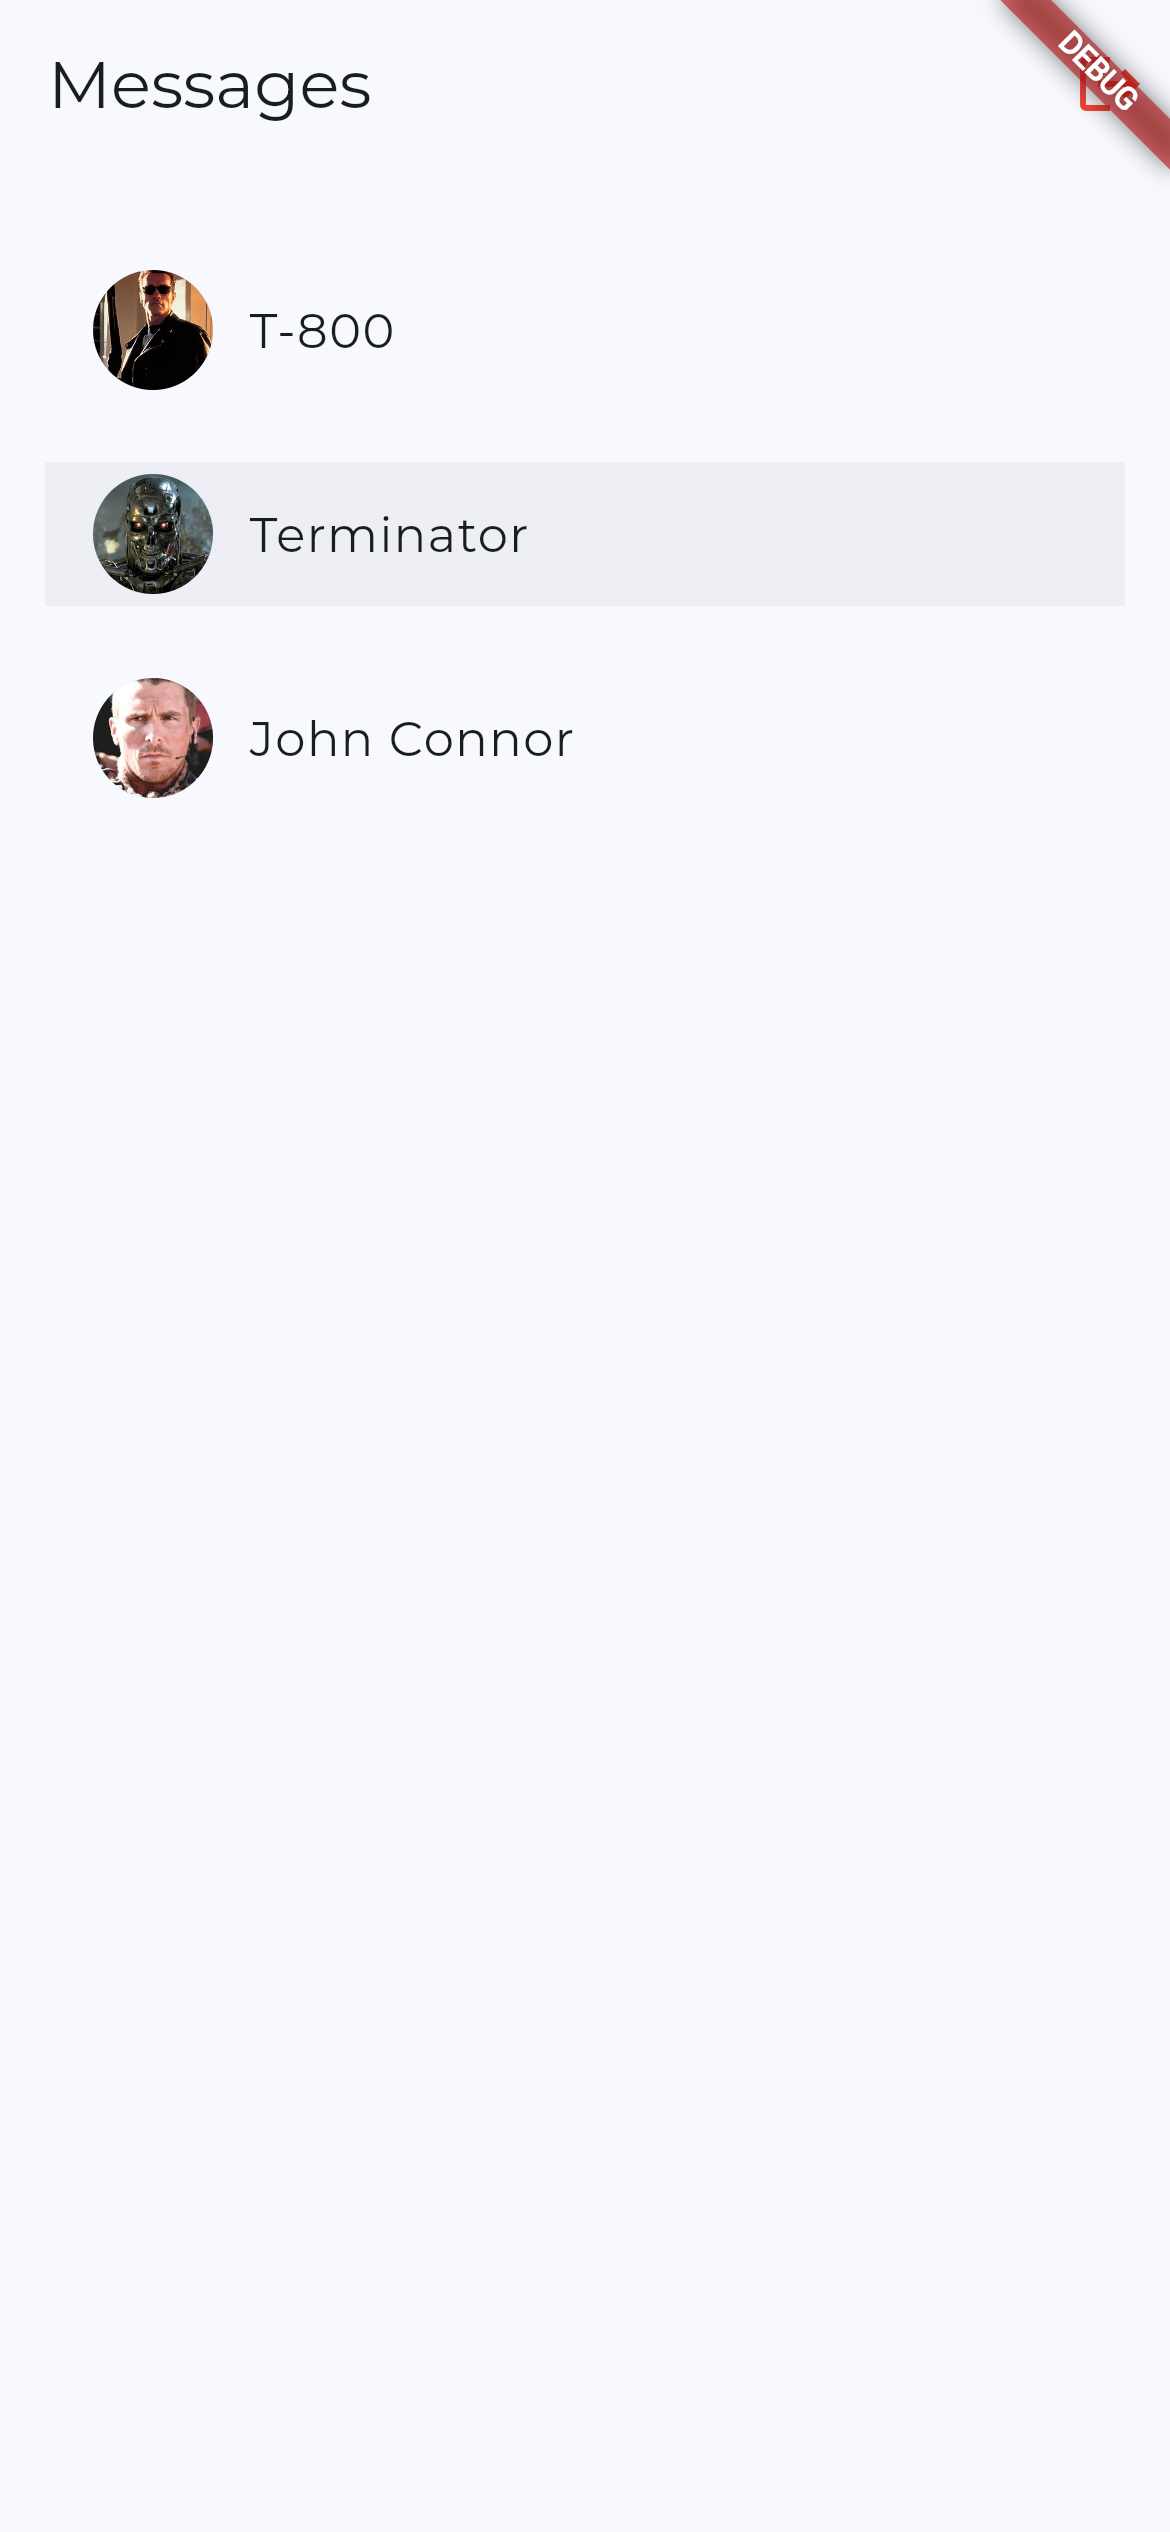
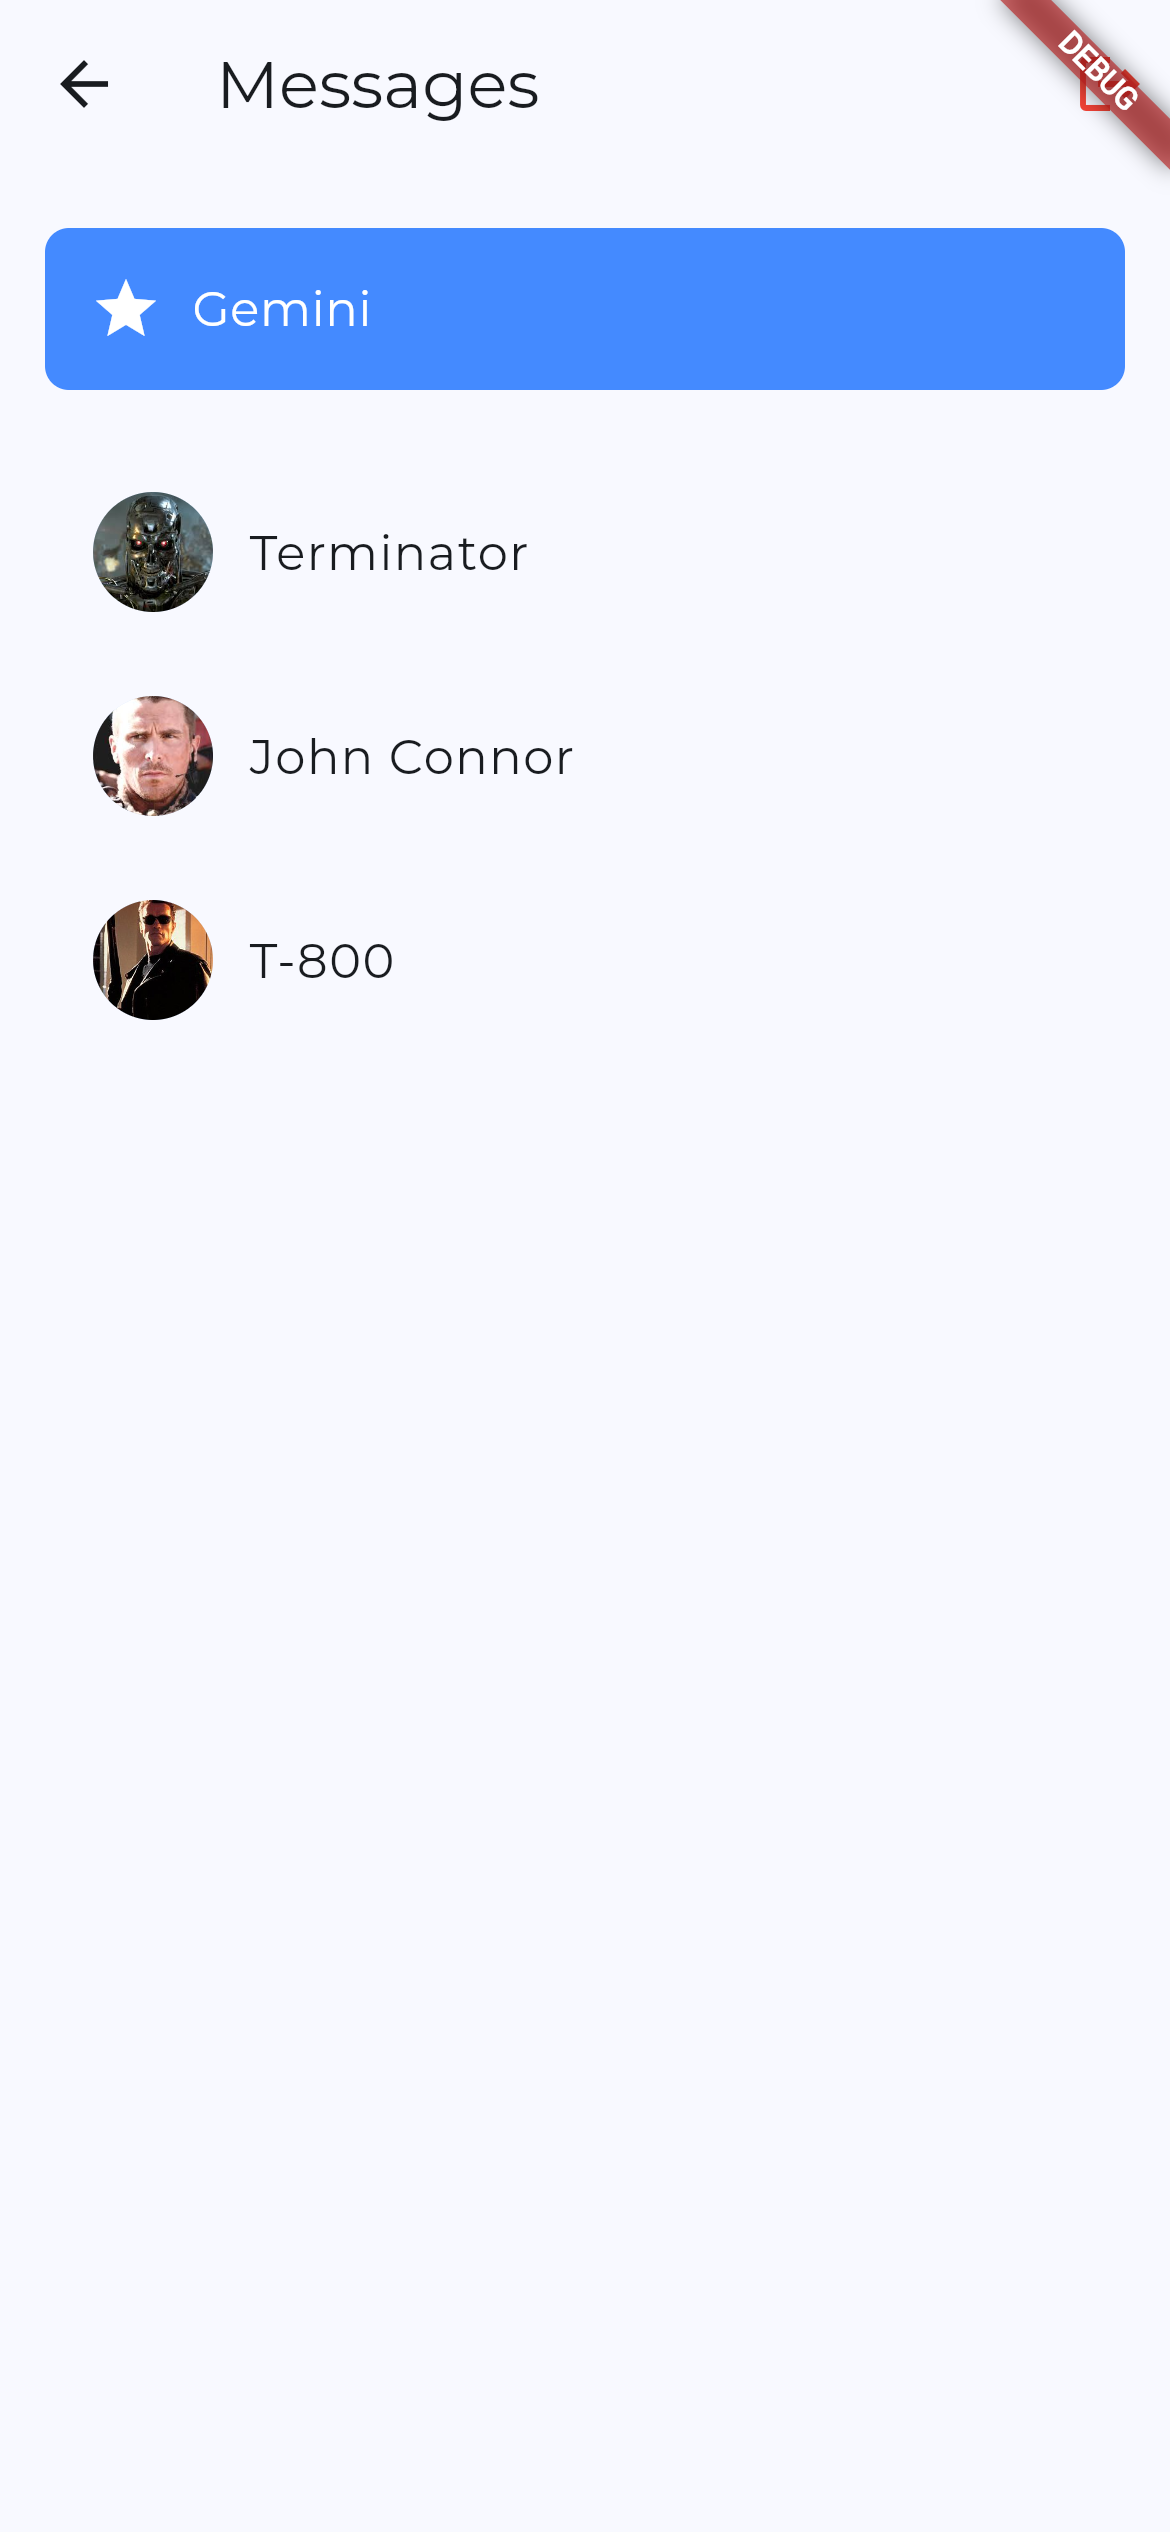
Added Gemini API

diff --git a/lib/pages/gemini_page.dart b/lib/pages/gemini_page.dart
@@ -1,0 +1,150 @@
+import 'dart:io';
+import 'dart:typed_data';
+
+import 'package:dash_chat_2/dash_chat_2.dart';
+import 'package:flutter/material.dart';
+import 'package:flutter_gemini/flutter_gemini.dart';
+import 'package:get_it/get_it.dart';
+import 'package:image_picker/image_picker.dart';
+import 'package:skynet/services/auth_service.dart';
+
+class GeminiPage extends StatefulWidget {
+  const GeminiPage({super.key});
+
+  @override
+  State<GeminiPage> createState() => GeminiPageState();
+}
+
+class GeminiPageState extends State<GeminiPage> {
+  List<ChatMessage> messages = [];
+
+  final Gemini gemini = Gemini.instance;
+  final GetIt _getIt = GetIt.instance;
+
+  late AuthService _authService;
+
+  ChatUser? currentUser, otherUser;
+
+  @override
+  void initState() {
+    super.initState();
+    _authService = _getIt.get<AuthService>();
+
+    currentUser = ChatUser(
+      id: _authService.user!.uid,
+      firstName: _authService.user!.displayName,
+    );
+    otherUser = ChatUser(
+      id: "b1PbAaFJWyWHv1ikfu2B7AFBpwD2",
+      firstName: "Gemini",
+      profileImage:
+          "https://static.toiimg.com/thumb/msid-110225707,width-1280,height-720,resizemode-4/110225707.jpg",
+    );
+  }
+
+  @override
+  Widget build(BuildContext context) {
+    return Scaffold(
+      appBar: AppBar(
+        centerTitle: true,
+        title: const Text(
+          "Gemini Chat",
+        ),
+      ),
+      body: _buildUI(),
+    );
+  }
+
+  Widget _buildUI() {
+    return DashChat(
+        messageOptions: const MessageOptions(
+          showOtherUsersAvatar: true,
+          showTime: true,
+        ),
+        inputOptions: InputOptions(
+          trailing: [
+            IconButton(
+              onPressed: _sendMediaMessage,
+              icon: const Icon(
+                Icons.image,
+              ),
+            )
+          ],
+          alwaysShowSend: true,
+        ),
+        currentUser: currentUser!,
+        onSend: _sendMessage,
+        messages: messages);
+  }
+
+  void _sendMessage(ChatMessage chatMessage) {
+    setState(() {
+      messages = [chatMessage, ...messages];
+    });
+    try {
+      String question = chatMessage.text;
+      List<Uint8List>? images;
+
+      if (chatMessage.medias?.isNotEmpty ?? false) {
+        images = [
+          File(chatMessage.medias!.first.url).readAsBytesSync(),
+        ];
+      }
+      gemini
+          .streamGenerateContent(
+        question,
+        images: images,
+      )
+          .listen((event) {
+        ChatMessage? lastMessage = messages.firstOrNull;
+        if (lastMessage != null && lastMessage.user == otherUser) {
+          lastMessage = messages.removeAt(0);
+          String response = event.content?.parts?.fold(
+                  "", (previous, current) => "$previous ${current.text}") ??
+              "";
+          lastMessage.text += response;
+          setState(
+            () {
+              messages = [lastMessage!, ...messages];
+            },
+          );
+        } else {
+          String response = event.content?.parts?.fold(
+                  "", (previous, current) => "$previous ${current.text}") ??
+              "";
+          ChatMessage message = ChatMessage(
+            user: otherUser!,
+            createdAt: DateTime.now(),
+            text: response,
+          );
+          setState(() {
+            messages = [message, ...messages];
+          });
+        }
+      });
+    } catch (e) {
+      print(e);
+    }
+  }
+
+  void _sendMediaMessage() async {
+    ImagePicker picker = ImagePicker();
+    XFile? file = await picker.pickImage(
+      source: ImageSource.gallery,
+    );
+    if (file != null) {
+      ChatMessage chatMessage = ChatMessage(
+          user: currentUser!,
+          createdAt: DateTime.now(),
+          text: "Describe this picture?",
+          medias: [
+            ChatMedia(
+              url: file.path,
+              fileName: "",
+              type: MediaType.image,
+            )
+          ]);
+      _sendMessage(chatMessage);
+    }
+  }
+}

diff --git a/lib/pages/home_page.dart b/lib/pages/home_page.dart
@@ -69,7 +69,13 @@ class _HomePageState extends State<HomePage> {
           horizontal: 15.0,
           vertical: 20.0,
         ),
-        child: _chatsList(),
+        child: Column(
+          children: [
+            _geminiChat(),
+            const SizedBox(height: 20),
+            Expanded(child: _chatsList()),
+          ],
+        ),
       ),
     );
   }
@@ -123,6 +129,32 @@ class _HomePageState extends State<HomePage> {
           child: CircularProgressIndicator(),
         );
       },
+    );
+  }
+
+  Widget _geminiChat() {
+    return GestureDetector(
+      onTap: () {
+        _navigationService.pushNamed("/gemini");
+      },
+      child: Container(
+        padding: const EdgeInsets.all(15),
+        decoration: BoxDecoration(
+          color: Colors.blueAccent,
+          borderRadius: BorderRadius.circular(8),
+        ),
+        child: const Row(
+          children: [
+            Icon(Icons.star,
+                color: Colors.white), // Replace with your desired icon
+            SizedBox(width: 10),
+            Text(
+              "Gemini",
+              style: TextStyle(color: Colors.white, fontSize: 16),
+            ),
+          ],
+        ),
+      ),
     );
   }
 }

diff --git a/lib/services/navigation_sevice.dart b/lib/services/navigation_sevice.dart
@@ -1,5 +1,5 @@
 import 'package:flutter/material.dart';
-import 'package:flutter/widgets.dart';
+import 'package:skynet/pages/gemini_page.dart';
 import 'package:skynet/pages/home_page.dart';
 import 'package:skynet/pages/login_page.dart';
 import 'package:skynet/pages/register_page.dart';
@@ -11,6 +11,7 @@ class NavigationService {
     "/login": (context) => LoginPage(),
     "/register": (context) => RegisterPage(),
     "/home": (context) => HomePage(),
+    "/gemini": (context) => GeminiPage(),
   };
 
   GlobalKey<NavigatorState>? get navigatorKey {

diff --git a/lib/main.dart b/lib/main.dart
@@ -1,12 +1,17 @@
 import 'package:flutter/material.dart';
+import 'package:flutter_gemini/flutter_gemini.dart';
 import 'package:get_it/get_it.dart';
 import 'package:google_fonts/google_fonts.dart';
+import 'package:skynet/consts.dart';
 import 'package:skynet/services/auth_service.dart';
 import 'package:skynet/services/navigation_sevice.dart';
 import 'package:skynet/utils.dart';
 
 void main() async {
   await setup();
+  Gemini.init(
+    apiKey: GEMINI_API_KEY,
+  );
   runApp(MyApp());
 }
 

diff --git a/lib/consts.dart b/lib/consts.dart
@@ -11,3 +11,5 @@ final String PLACEHOLDER_PFP =
 
 final String DEFAULT_PFP_URL =
     "https://t3.ftcdn.net/jpg/05/16/27/58/360_F_516275801_f3Fsp17x6HQK0xQgDQEELoTuERO4SsWV.jpg";
+
+final GEMINI_API_KEY = "AIzaSyDanIyGH2pQecuAixNeB_O67vFtQNngp8Y";
